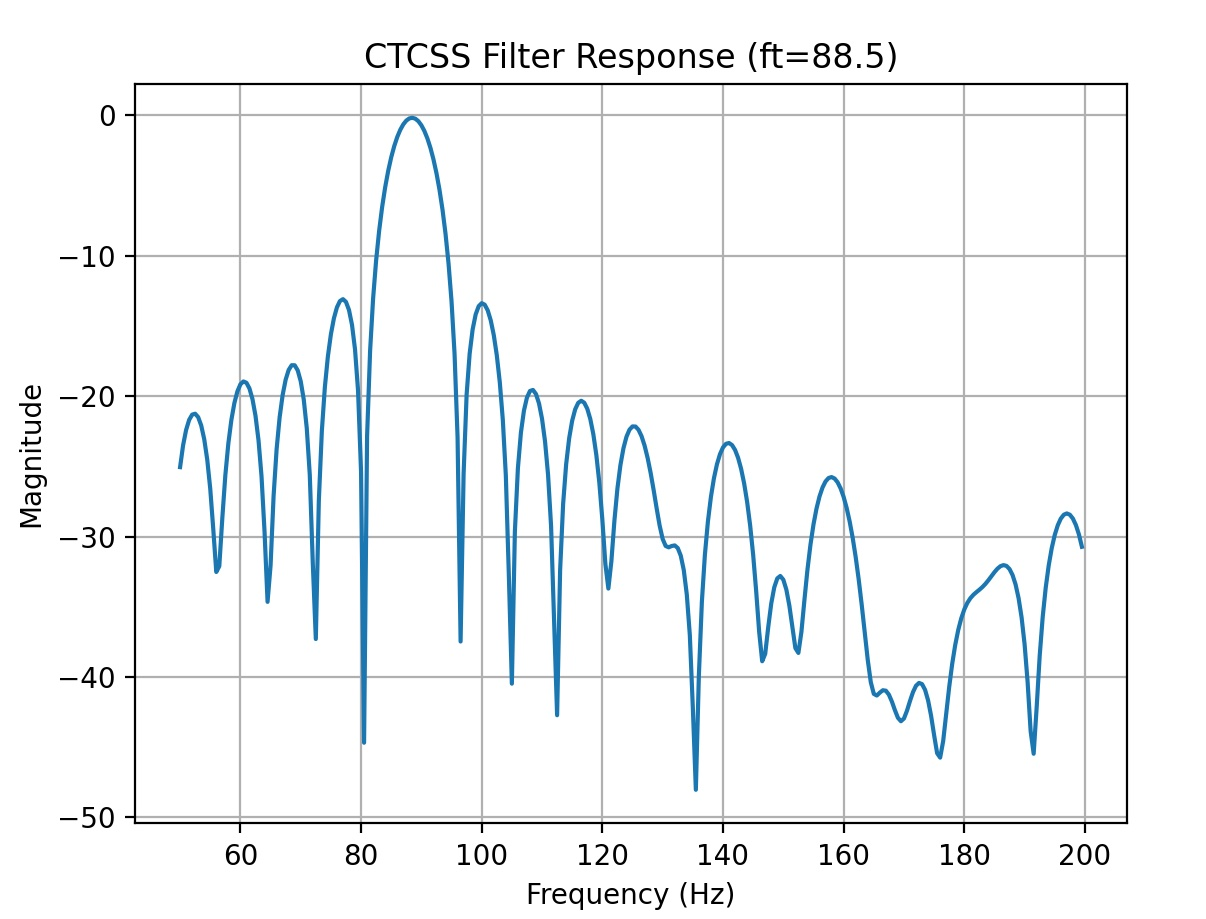
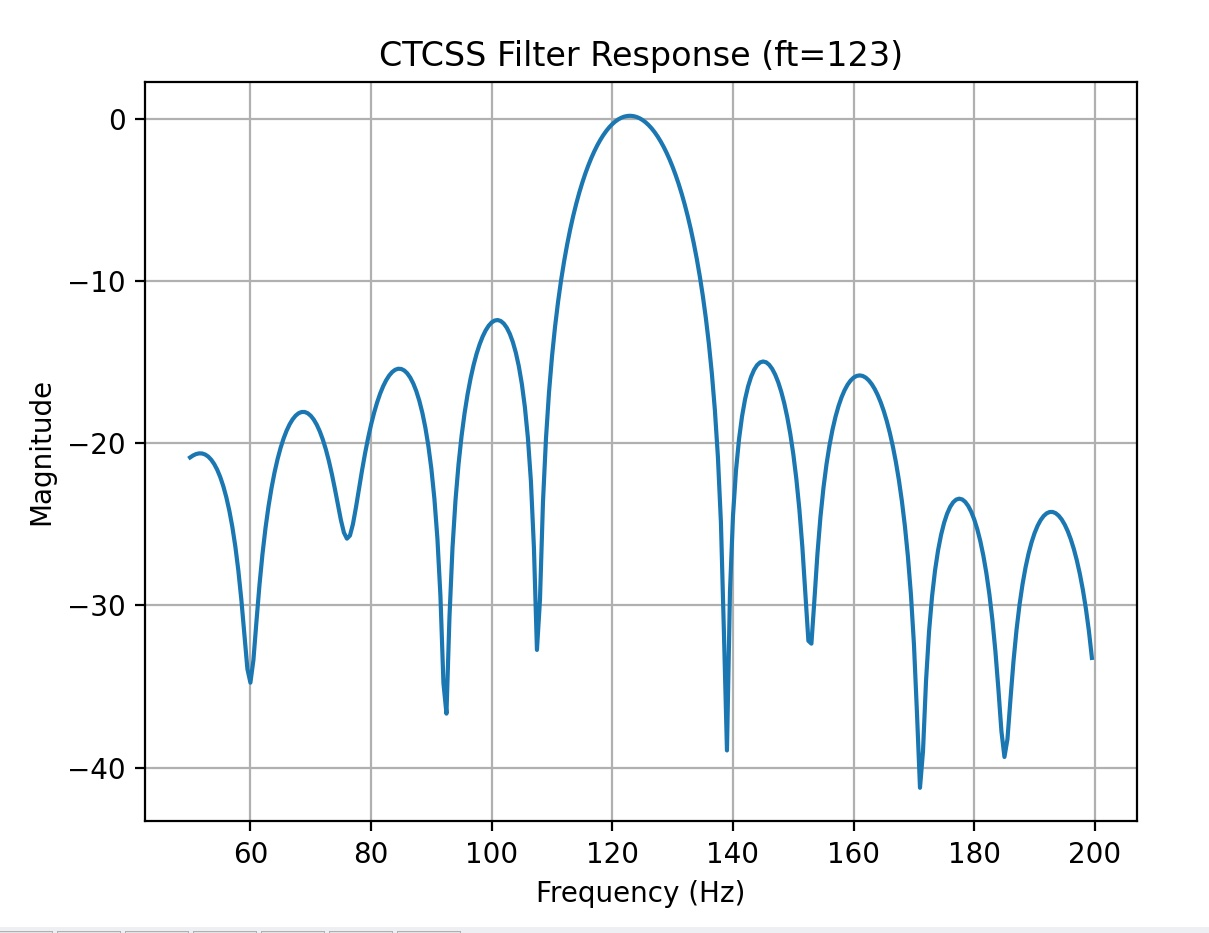
Working on CTCSS

Changed region(s): [[0.0, 0.0305, 0.9511, 1.0]]

diff --git a/python/test-ctcss.py b/python/test-ctcss.py
@@ -26,11 +26,11 @@ def filt1(signal0, ft1):
     return g_mag
 
 # Simulate a signal being filtered
-samples = 1000
+samples = 512
 t = np.linspace(0, samples, samples, endpoint=False)
 
-ft0 = 134
-a0 = 7
+ft0 = 123
+a0 = 1.0
 omega0 = 2.0 * pi * ft0 / fs
 signal0 = a0 * np.sin(omega0 * t)
 
@@ -40,8 +40,8 @@ mean1 = 0  # Center of the distribution
 stddev1 = 0.5 * 0.707 # Standard deviation (spread of the noise)#
 # Generate Gaussian white noise
 signal1 = np.random.normal(loc=mean1, scale=stddev1, size=len(t))
-#signal2 = signal0 + signal1
-signal2 = signal0
+signal2 = signal0 + signal1
+#signal2 = signal0
 
 # Try a range of frequencies to see which match the best.
 result = []
@@ -51,7 +51,7 @@ for f in f0:
     re = filt1(signal2, f) / (samples / 2)
     #print(f, 20 * math.log10(re))
     #result.append(20 * math.log10(re))
-    result.append(re)
+    result.append(20 * math.log10(re))
 
 fig, ax = plt.subplots()
 ax.plot(f0, result)

diff --git a/README.md b/README.md
@@ -292,14 +292,9 @@ and false drops of the detector.
 
 The algorithm has been tested to ensure sharpness of the 
 detection filter. The filter was set to detect the PL 
-tone of 88.5 Hz (W1TZK UHF tone) and a range of tones (plus a 
+tone of 123 Hz (W1TZK VHF tone) and a range of tones (plus a 
 high level of additive white Gaussian noise) were played
-into the filter. The response is charted below. The two 
-CTCSS tones immediately adjacent to 88.5 Hz (85.4 Hz and 91.5 Hz) were 
-both about 
--2.5dB down from the peak detection level. The detector
-quickly rolled down to below -10dB for tones further away from
-the 88.5 Hz target.
+into the filter. The response is charted below. 
 
 ![CTCSS Detection Filter](docs/ctcss-1.jpg)
 
